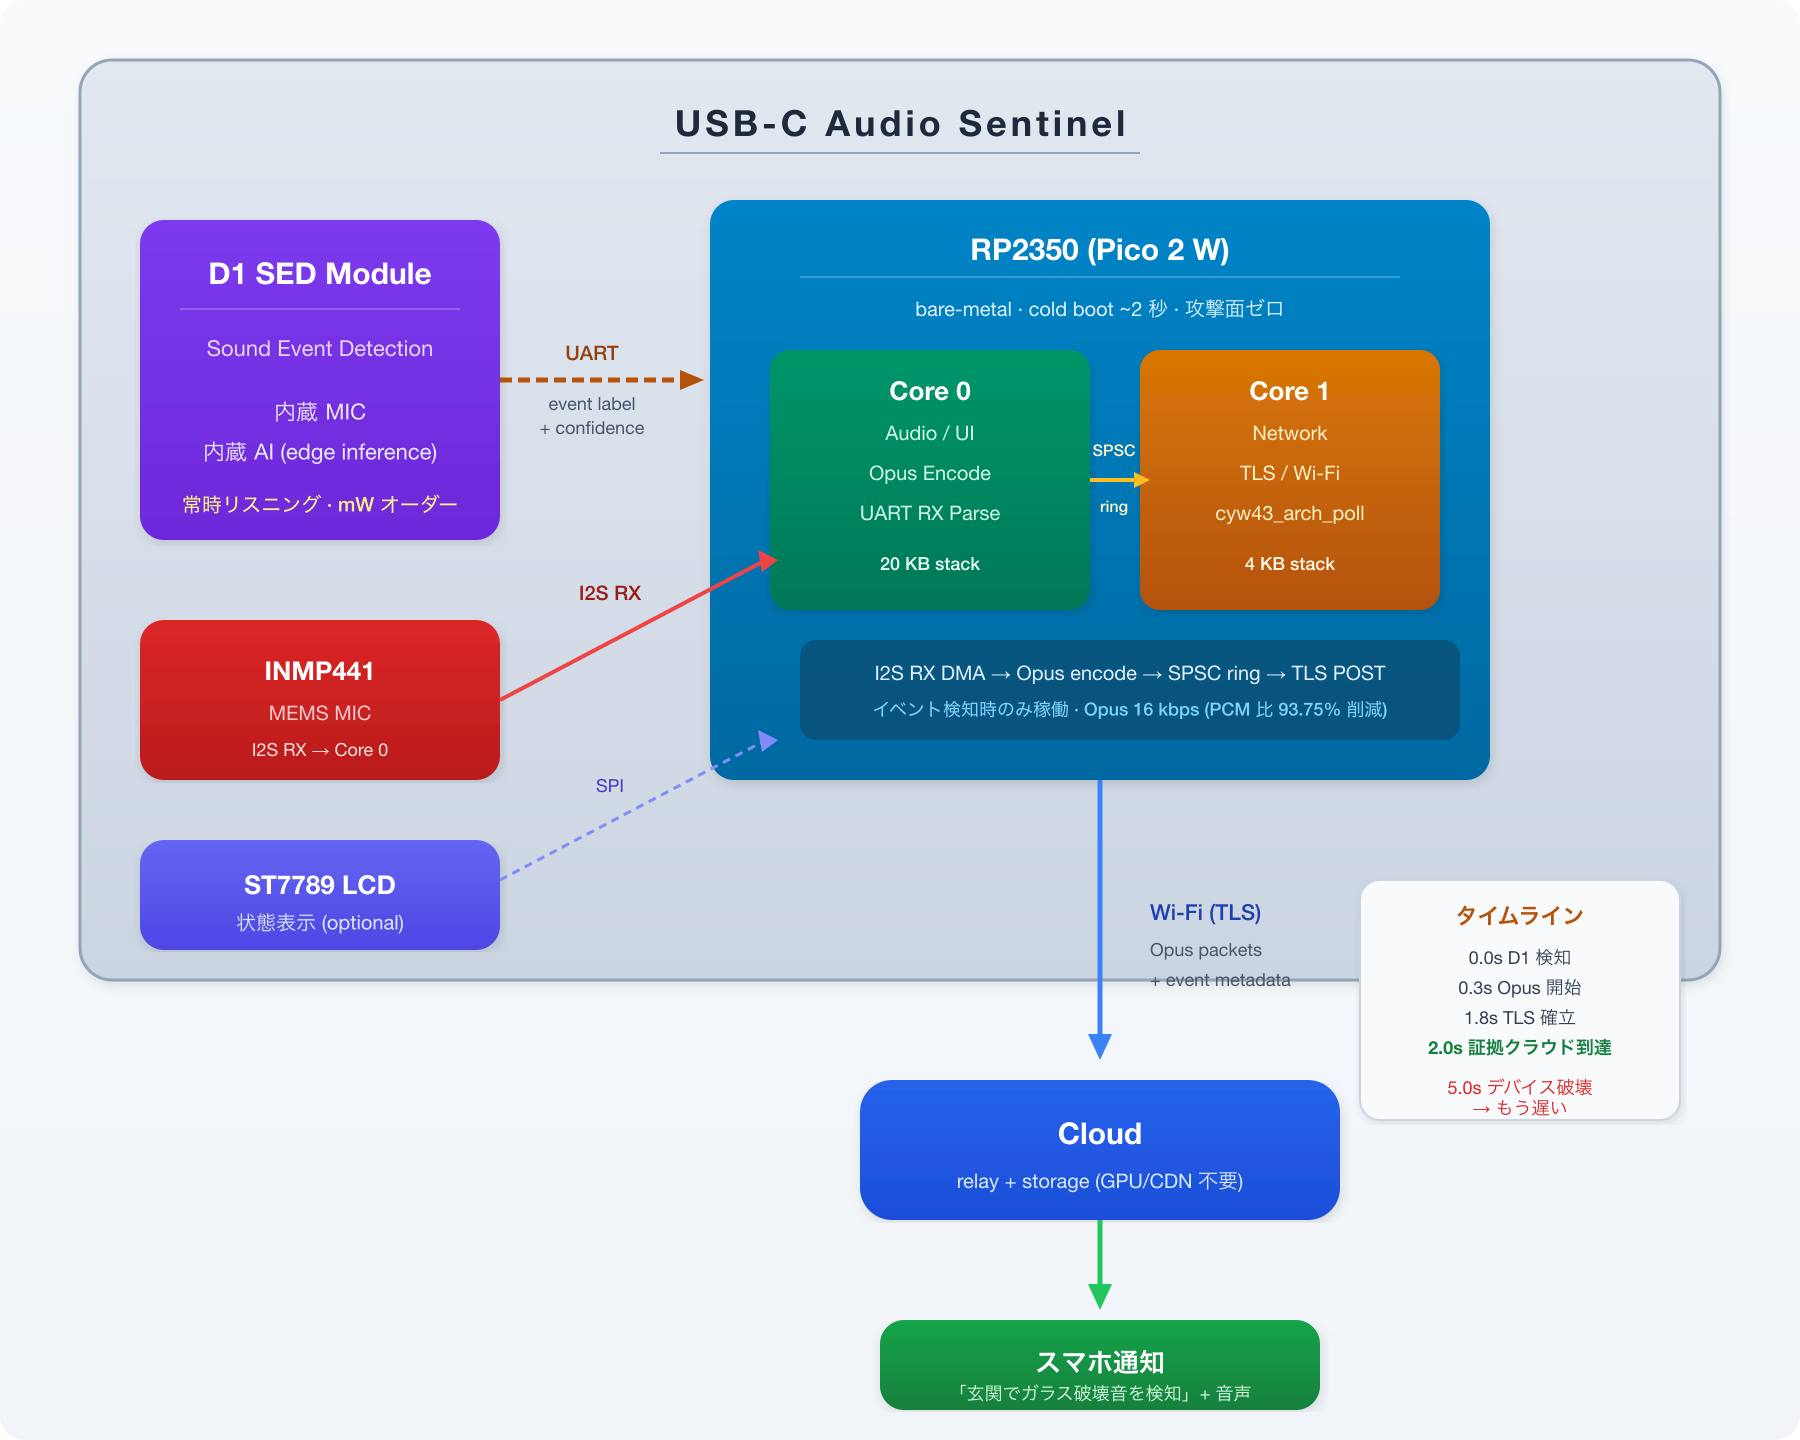
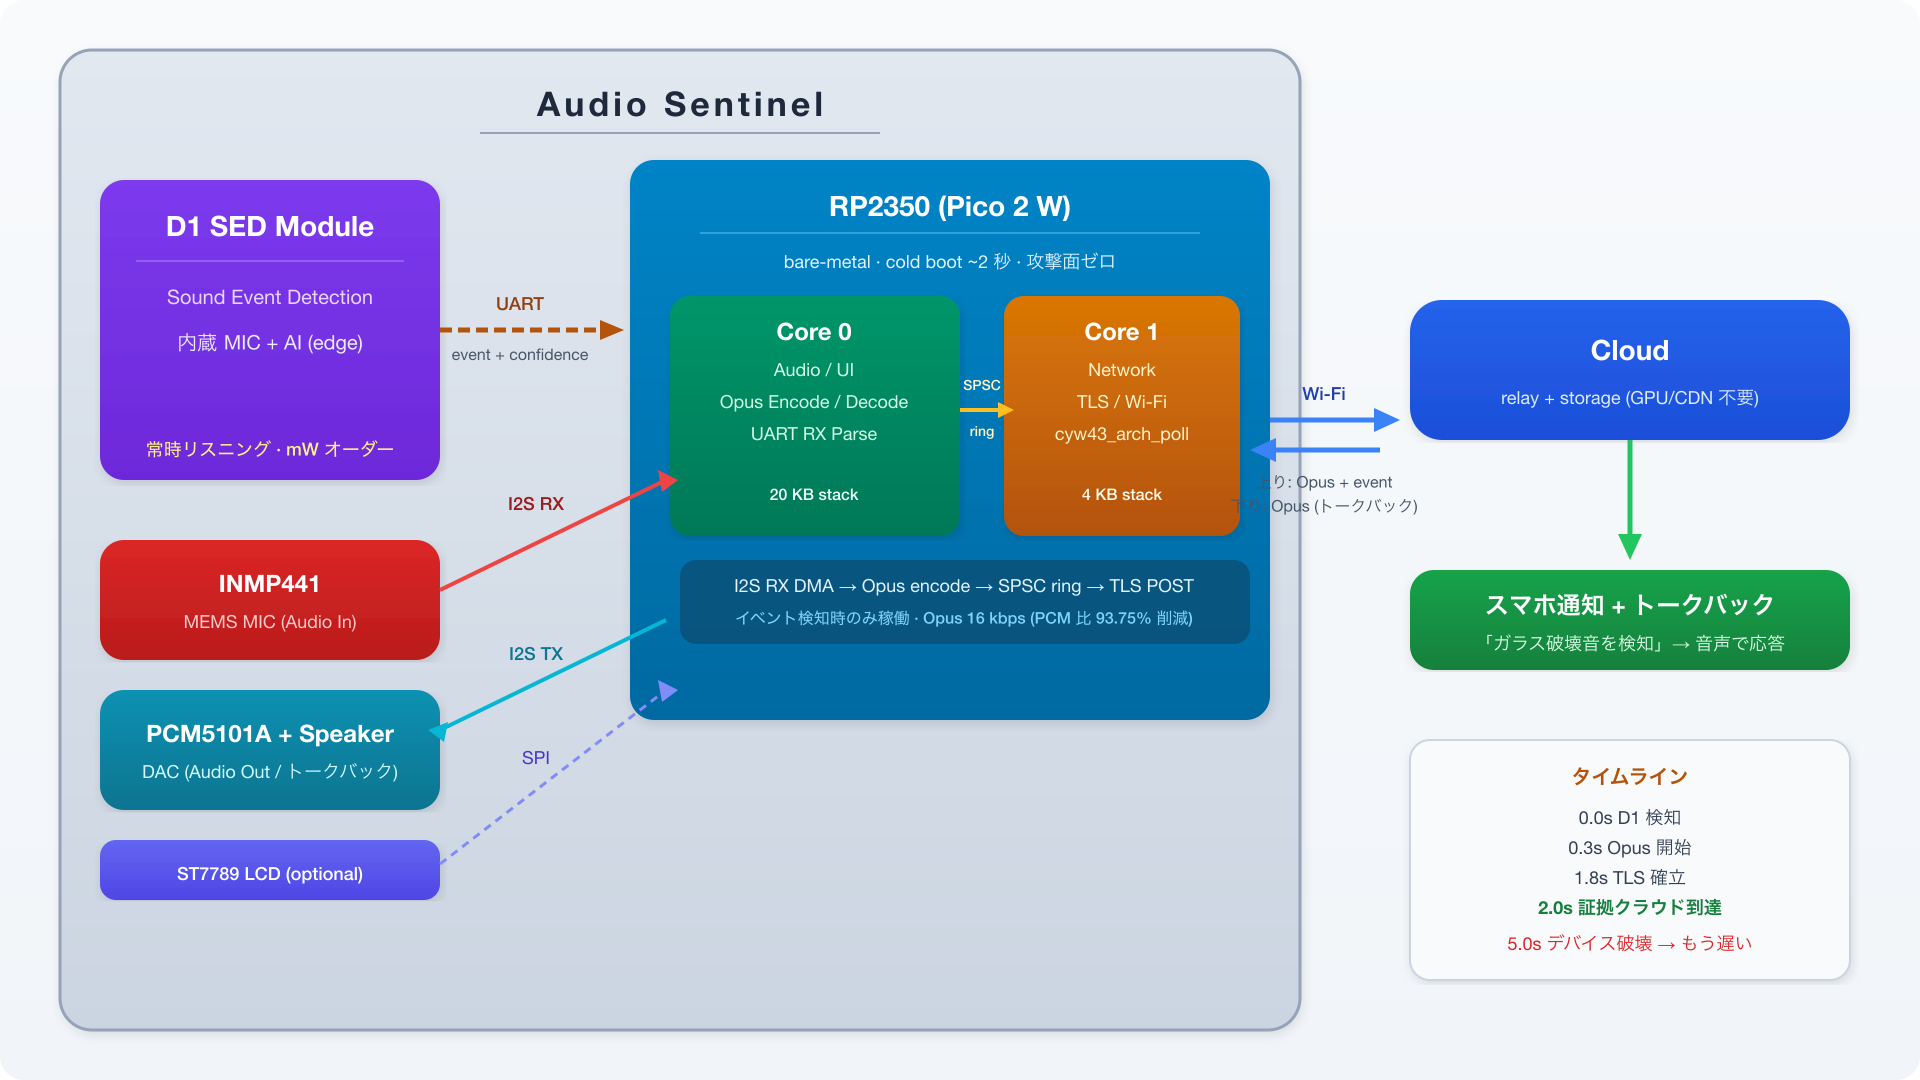
ito-denwa: update SED diagrams and add English versions
- Redesign sed_architecture to horizontal layout with Cloud/Phone
  on the right, add PCM5101A speaker output, fix missing SPI line
- Redesign sed_flow to two-column layout to reduce vertical height,
  fix missing INMP441→Core 0 arrow
- Rename "USB-C Audio Sentinel" to "Audio Sentinel" to reflect
  battery operation support
- Reframe intro as MCU vs SBC dilemma (edge classification at low
  power) instead of "constant recording"
- Add .en.svg/.en.png English versions of all three SED diagrams
- Remove redundant sections and fix stale external references

diff --git a/examples/ito-denwa/sound-event-detection.md b/examples/ito-denwa/sound-event-detection.md
@@ -19,7 +19,7 @@ MCU の低消費電力は魅力だが音の分類ができない。SBC なら分
 
 **Seeed Studio Sound Event Detection Module D1** は、このジレンマを解消する。内蔵マイク + オンチップ AI で音分類をエッジ完結させ、結果を UART で出力する。消費電力は mW オーダー。MCU に 1 本のシリアル線で追加するだけで、**MCU レベルの消費電力のまま、エッジ音分類が手に入る**。
 
-名前を付けるなら **USB-C Audio Sentinel** — 超低消費電力・小型クラウド音イベントセキュリティ端末。
+名前を付けるなら **Audio Sentinel** — 超低消費電力・小型クラウド音イベントセキュリティ端末。
 
 ---
 
@@ -33,7 +33,7 @@ RP2350 の音声パイプラインが、そのまま D1 のバックエンドに
 | Opus 16 kbps (PCM 比 93.75% 削減) | 検知時だけ送れば帯域・電力がさらに激減 |
 | TLS 常時接続 (CYW43 Wi-Fi) | 検知イベント + 音声の即時クラウド送信 |
 | Cloud relay (GPU/CDN 不要の最小構成) | 通知・証跡保存のバックエンド |
-| BLE プロビジョニング | コンセントに挿すだけ、Wi-Fi 設定はスマホから |
+| BLE プロビジョニング | Wi-Fi 設定はスマホから |
 | LCD + ボタン UI | 検知状態の表示・感度調整 |
 
 **追加ハードウェアはモジュール 1 個とシリアル線 2 本だけ。**
